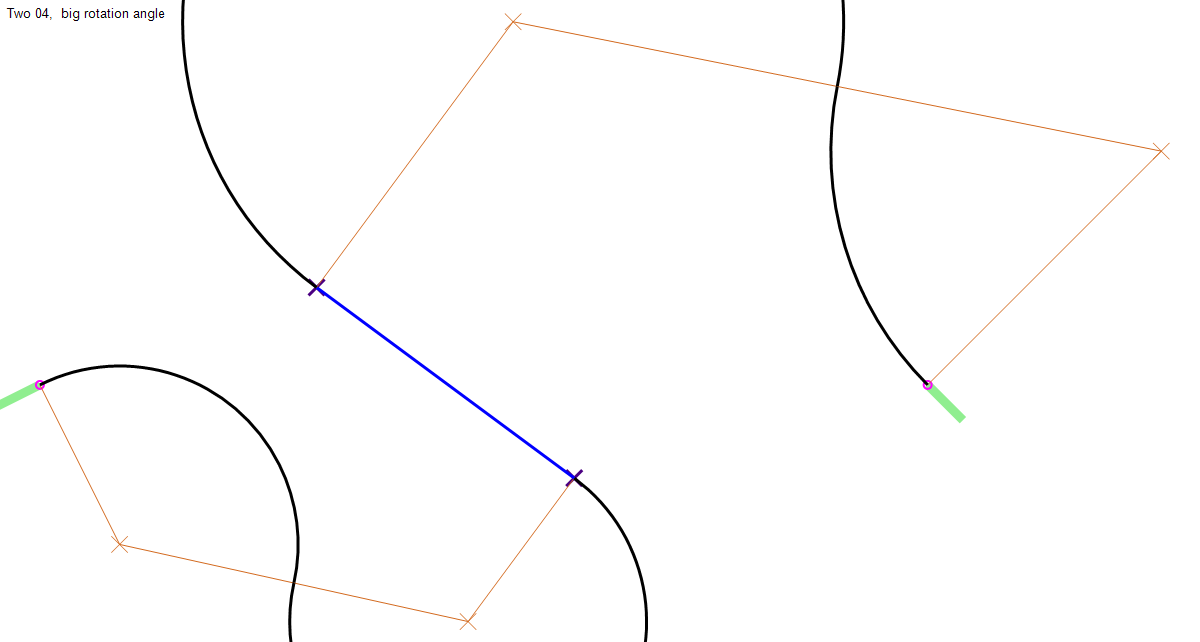
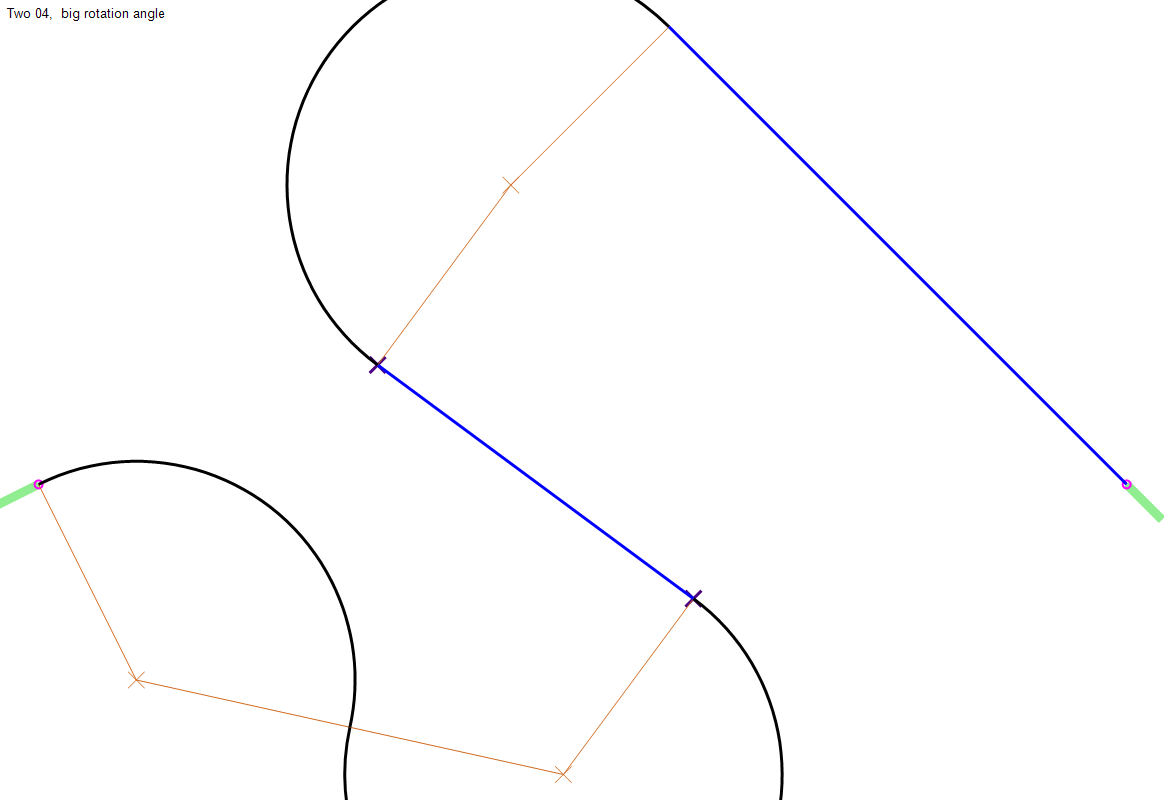
fixes arc calculation for arc angle greater than 180deg

diff --git a/app/iSukces.DrawingPanel.Paths.Test/TwoReferencePointsPathCalculatorTests.cs b/app/iSukces.DrawingPanel.Paths.Test/TwoReferencePointsPathCalculatorTests.cs
@@ -174,7 +174,35 @@ namespace iSukces.DrawingPanel.Paths.Test
             }.With(calc).Draw();
 
            
-            var code = new TestMaker().Create(r, nameof(r));
+            #region Asserts
+            AssertEx.Equal(-20, 0, r.Start);
+            AssertEx.Equal(100, 0, r.End);
+            Assert.Equal(5, r.Arcs.Count);
+            var tmp1 = (ArcDefinition)r.Arcs[0];
+            Assert.Equal(ArcDirection.Clockwise, tmp1.Direction);
+            Assert.Equal(129.041141188484, tmp1.Angle, 6);
+            AssertEx.Equal(-9.21331054865222, -21.5733789026956, tmp1.Center);
+            AssertEx.Equal(-20, 0, tmp1.Start);
+            AssertEx.Equal(14.3369019350688, -26.7840255584071, tmp1.End);
+            AssertEx.Equal(0.894427190999916, 0.447213595499958, tmp1.StartVector);
+            tmp1 = (ArcDefinition)r.Arcs[1];
+            Assert.Equal(ArcDirection.CounterClockwise, tmp1.Direction);
+            Assert.Equal(245.977962749789, tmp1.Angle, 6);
+            AssertEx.Equal(37.8871144187898, -31.9946722141186, tmp1.Center);
+            AssertEx.Equal(14.3369019350688, -26.7840255584071, tmp1.Start);
+            AssertEx.Equal(52.23347, -12.60536, tmp1.End);
+            AssertEx.Equal(-5.2106466557115, -23.550212483721, tmp1.StartVector);
+            AssertEx.Equal(52.23347, -12.60536, 17.4, 13.16829, (LinePathElement)r.Arcs[2], 6);
+            tmp1 = (ArcDefinition)r.Arcs[3];
+            Assert.Equal(ArcDirection.Clockwise, tmp1.Direction);
+            Assert.Equal(188.501872738383, tmp1.Angle, 6);
+            AssertEx.Equal(32.0816235714691, 33.0107218723991, tmp1.Center);
+            AssertEx.Equal(17.4, 13.16829, tmp1.Start);
+            AssertEx.Equal(49.535450849535, 50.464549150465, tmp1.End);
+            AssertEx.Equal(-34.83347, 25.77365, tmp1.StartVector);
+            AssertEx.Equal(49.535450849535, 50.464549150465, 100, 0, (LinePathElement)r.Arcs[4], 6);
+            #endregion
+
         }
 
 

diff --git a/app/iSukces.DrawingPanel.Paths/_utils/OneArcFinder.cs b/app/iSukces.DrawingPanel.Paths/_utils/OneArcFinder.cs
@@ -7,28 +7,35 @@ namespace iSukces.DrawingPanel.Paths
     {
         public ArcDefinition CalculateArc()
         {
-            var p1 = StartPoint;
-            var p2 = EndPoint;
-            var v1 = p1 - Cross;
-            var v2 = p2 - Cross;
-            var l1 = v1.Length;
-            var l2 = v2.Length;
-            if (l1 < l2)
+            var start              = StartPoint;
+            var end                = EndPoint;
+            var startToCross       = start - Cross;
+            var endToCross         = end - Cross;
+            var startToCrossLength = startToCross.Length;
+            var endToCrossLength   = endToCross.Length;
+
+            bool usePointsFurtherFromCrossPoint;
             {
-                var scale = l1 / l2;
+                var a = startToCross * StartVector;
+                var b = endToCross * EndVector;
+                usePointsFurtherFromCrossPoint = a > 0 && b < 0;
+            }
+            if (usePointsFurtherFromCrossPoint ^ startToCrossLength < endToCrossLength)
+            {
+                var scale = startToCrossLength / endToCrossLength;
                 if (double.IsNaN(scale))
                     return null;
-                p2 = Cross + v2 * scale;
+                end   = Cross + endToCross * scale;
             }
             else
             {
-                var scale = l2 / l1;
+                var scale = endToCrossLength / startToCrossLength;
                 if (double.IsNaN(scale))
                     return null;
-                p1 = Cross + v1 * scale;
+                start = Cross + startToCross * scale;
             }
 
-            return ArcDefinition.Make(p1, StartVector, p2, EndVector);
+            return ArcDefinition.Make(start, StartVector, end, EndVector);
         }
 
         [MethodImpl(MethodImplOptions.AggressiveInlining)]

diff --git a/app/iSukces.DrawingPanel.Paths/PathBuilder.cs b/app/iSukces.DrawingPanel.Paths/PathBuilder.cs
@@ -31,7 +31,6 @@ namespace iSukces.DrawingPanel.Paths
             var res = c.CalculateArc();
             if (Validator.IsOk(res))
             {
-                if (res.Angle<180)
                 if (CheckDot(res))
                 {
                     ArcTo(res);
